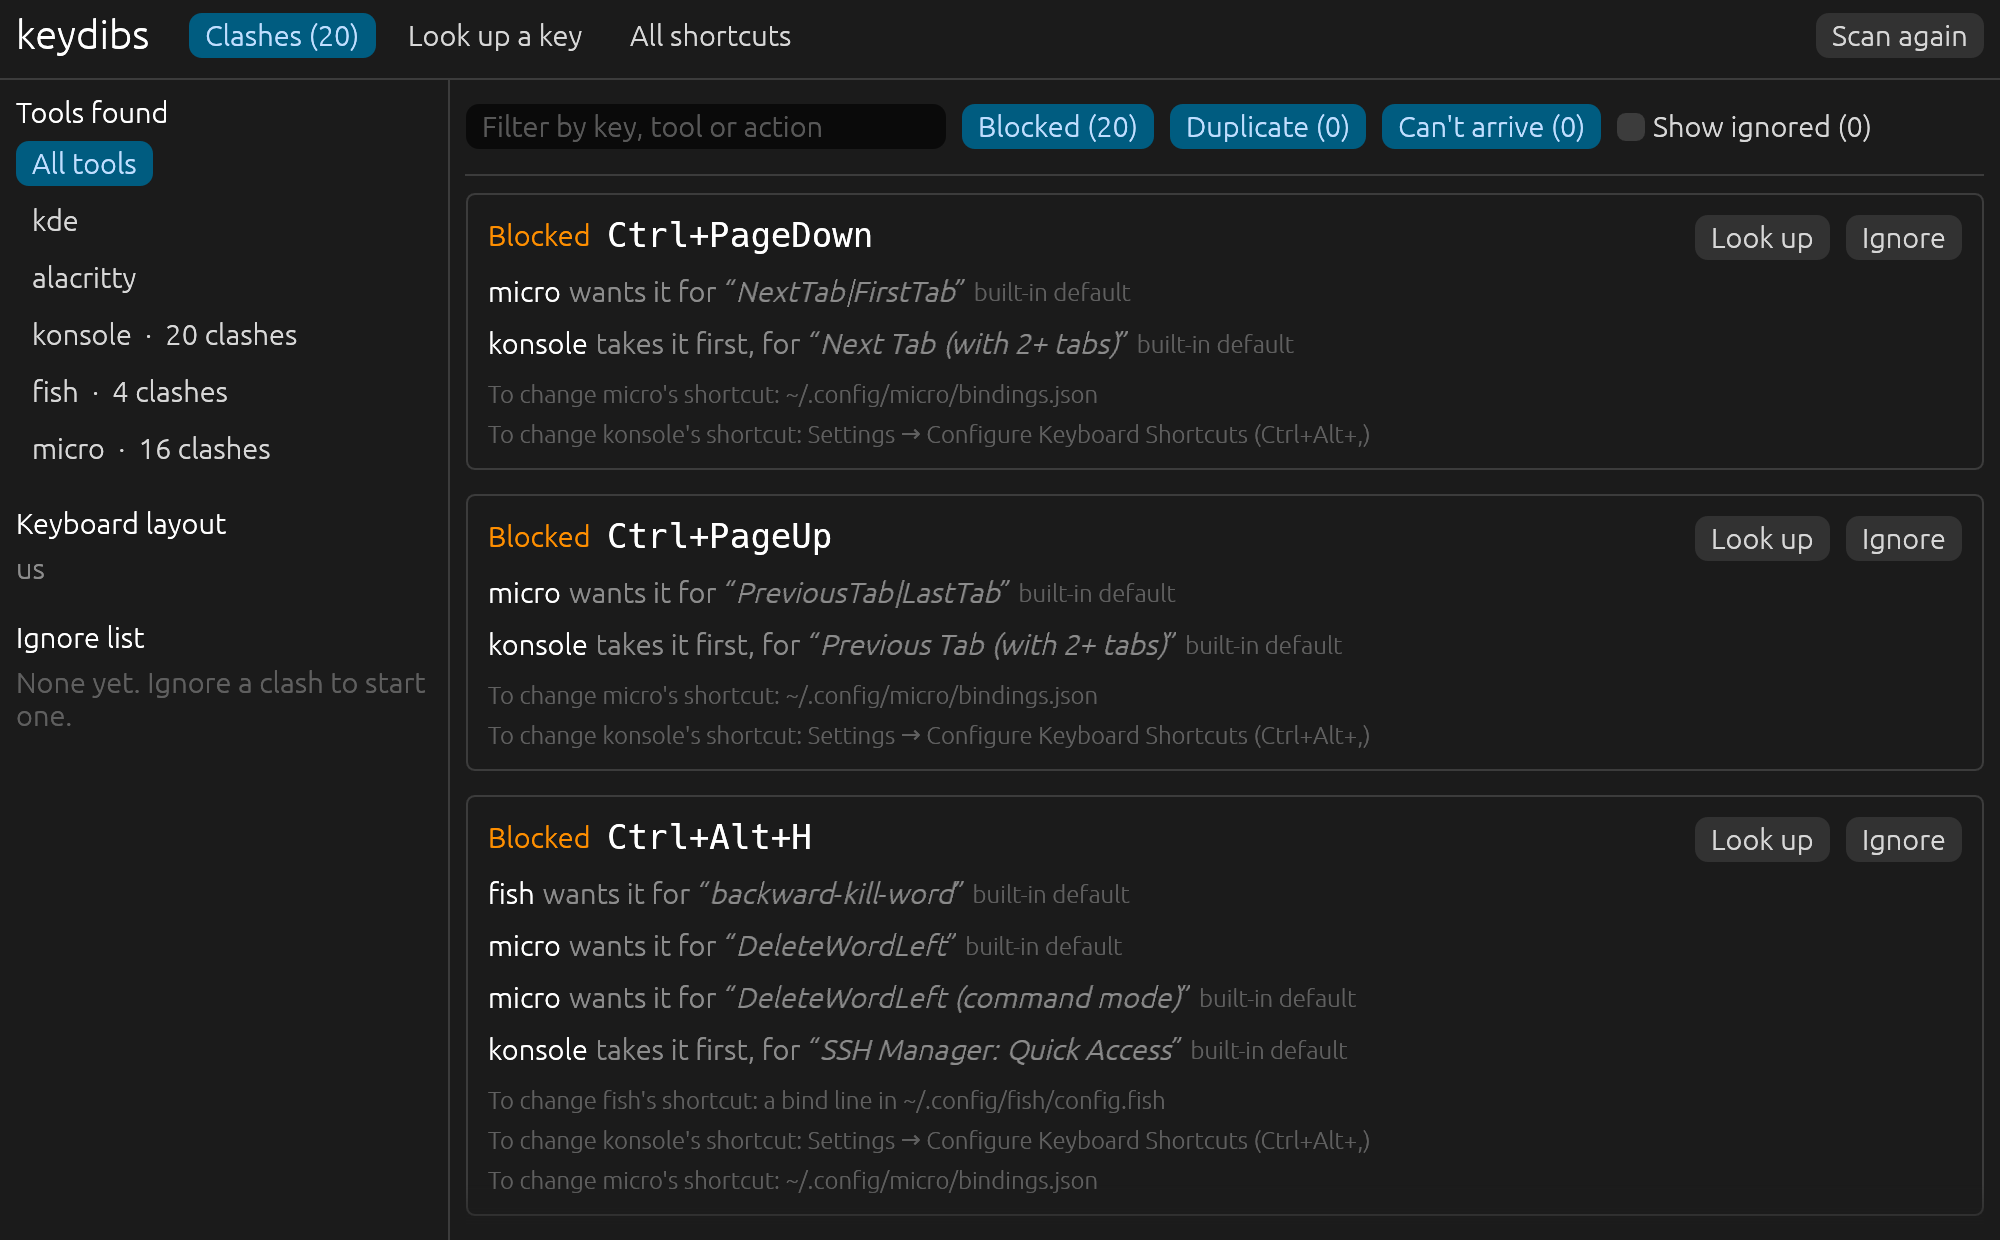
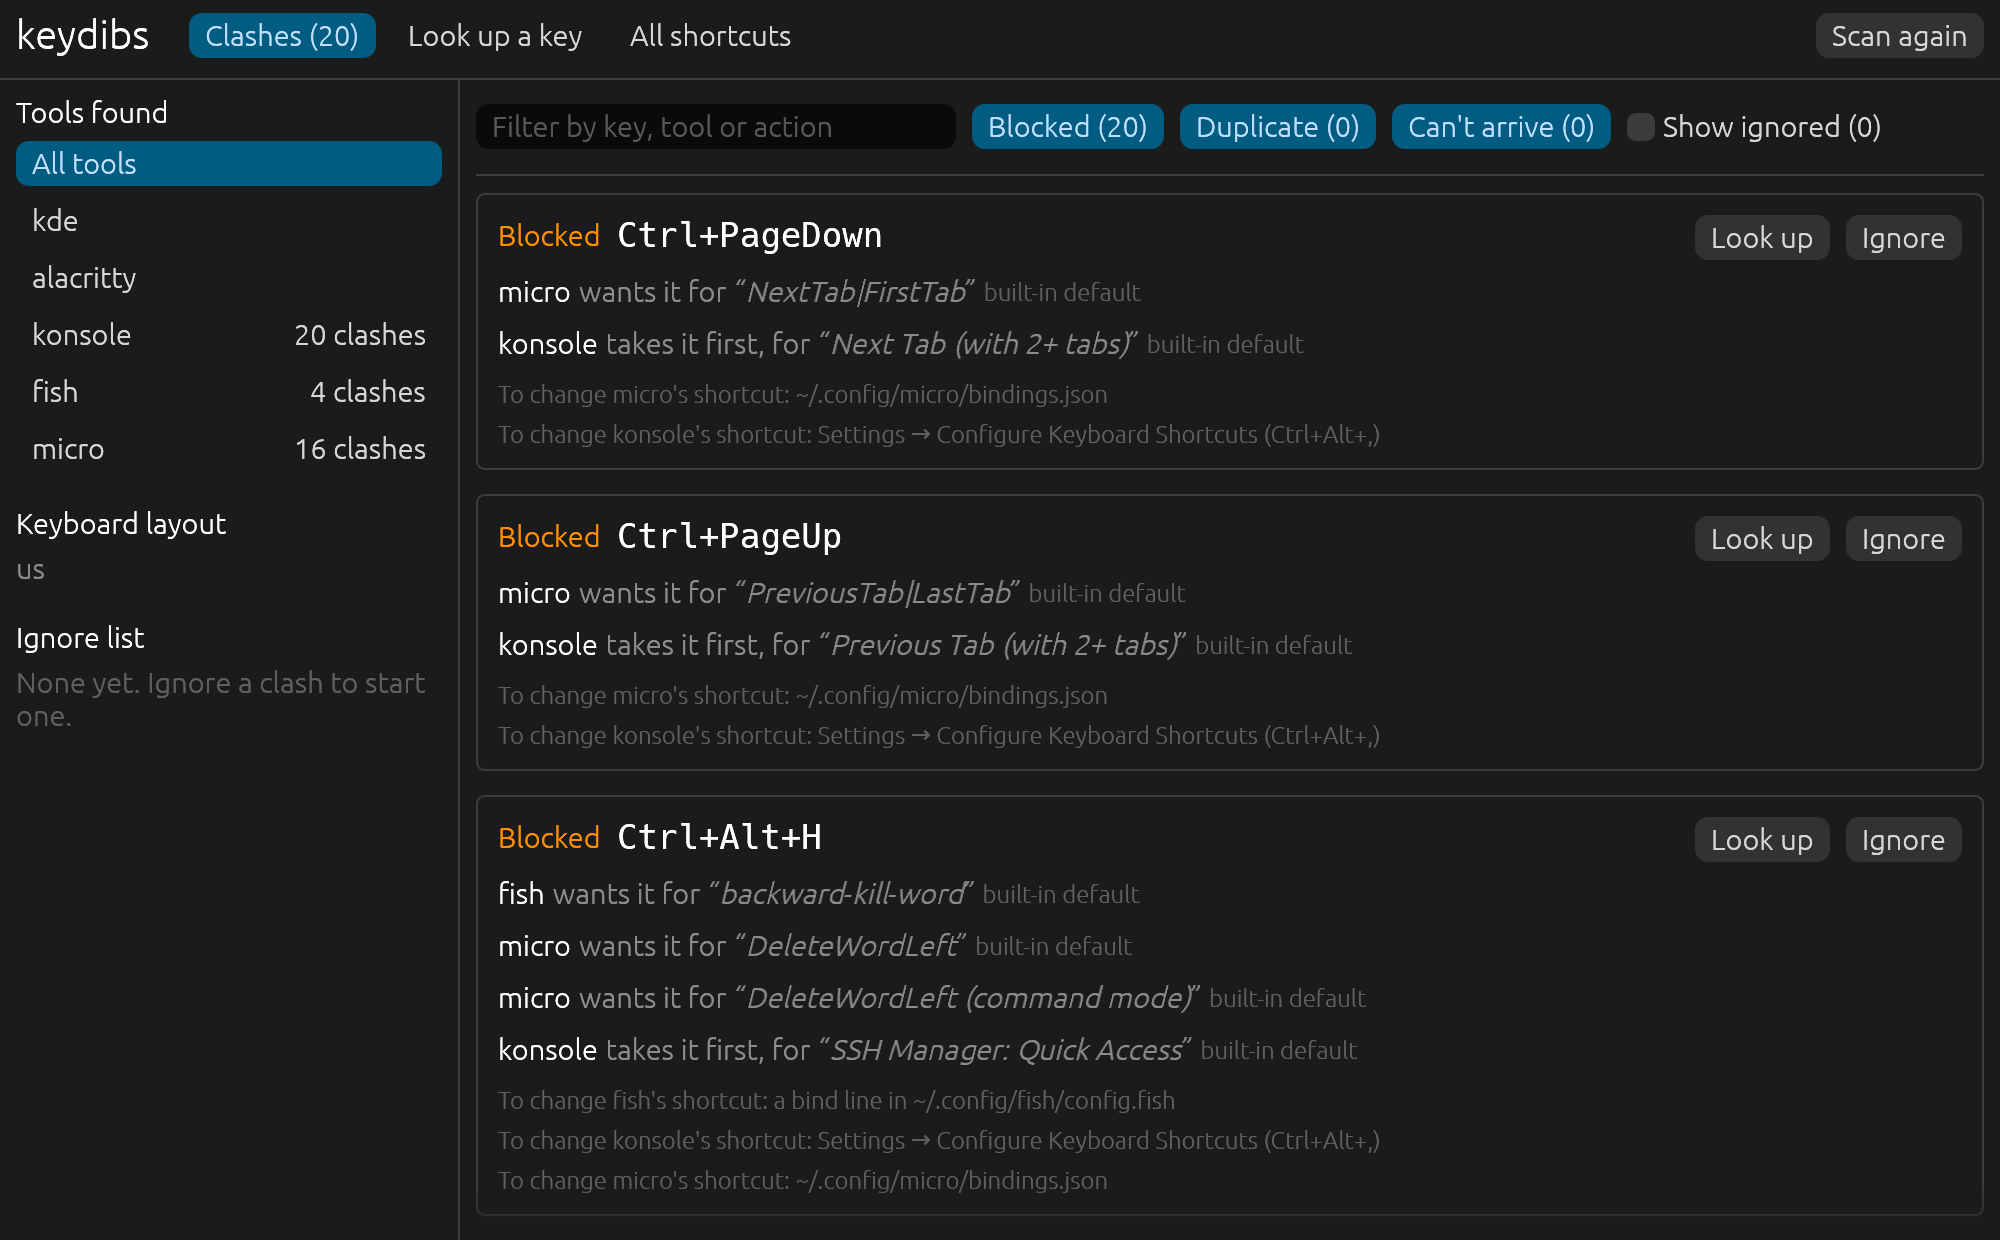
Give every row in the tool list the same width
Rows fill the side panel, so they highlight alike on hover however long their text is. Clash counts sit at the right edge, and one clash reads "1 clash".

diff --git a/src/gui/mod.rs b/src/gui/mod.rs
@@ -413,35 +413,41 @@ fn scanning(ui: &mut egui::Ui, progress: &[String]) {
 fn side_panel(ui: &mut egui::Ui, view: &mut View, findings: &[Finding]) {
     ui.add_space(6.0);
     ui.strong("Tools found");
-    if ui
-        .selectable_label(view.tool.is_none(), "All tools")
-        .clicked()
-    {
-        view.act(Action::FilterTool(None));
-    }
+    // A justified layout makes every row as wide as the panel, so they all
+    // highlight the same on hover however long their text is.
+    ui.with_layout(egui::Layout::top_down_justified(egui::Align::Min), |ui| {
+        if ui
+            .add(egui::Button::selectable(view.tool.is_none(), "All tools"))
+            .clicked()
+        {
+            view.act(Action::FilterTool(None));
+        }
+        for tool in &view.scanned.found.tools {
+            let clashes = findings
+                .iter()
+                .filter(|f| !f.is_ignored() && f.problem.tools().contains(&tool.name))
+                .count();
+            let count = match clashes {
+                0 => String::new(),
+                1 => "1 clash".to_string(),
+                count => format!("{count} clashes"),
+            };
+            let selected = view.tool == Some(tool.name);
+            let response = ui
+                .add(egui::Button::selectable(selected, tool.name).right_text(count))
+                .on_hover_text(format!(
+                    "{} ({}), {} shortcuts\nWhere to change them: {}",
+                    tool.name, tool.layer, tool.bindings, tool.where_to_change
+                ));
+            if response.clicked() {
+                view.act(Action::FilterTool((!selected).then_some(tool.name)));
+            }
+            for note in &tool.notes {
+                ui.label(RichText::new(note).small().weak());
+            }
+        }
+    });
     let found = &view.scanned.found;
-    for tool in &found.tools {
-        let clashes = findings
-            .iter()
-            .filter(|f| !f.is_ignored() && f.problem.tools().contains(&tool.name))
-            .count();
-        let label = if clashes > 0 {
-            format!("{}  ·  {clashes} clashes", tool.name)
-        } else {
-            tool.name.to_string()
-        };
-        let selected = view.tool == Some(tool.name);
-        let response = ui.selectable_label(selected, label).on_hover_text(format!(
-            "{} ({}), {} shortcuts\nWhere to change them: {}",
-            tool.name, tool.layer, tool.bindings, tool.where_to_change
-        ));
-        if response.clicked() {
-            view.act(Action::FilterTool((!selected).then_some(tool.name)));
-        }
-        for note in &tool.notes {
-            ui.label(RichText::new(note).small().weak());
-        }
-    }
     for skipped in &found.skipped {
         ui.label(
             RichText::new(format!("{} skipped: {}", skipped.tool, skipped.error))
